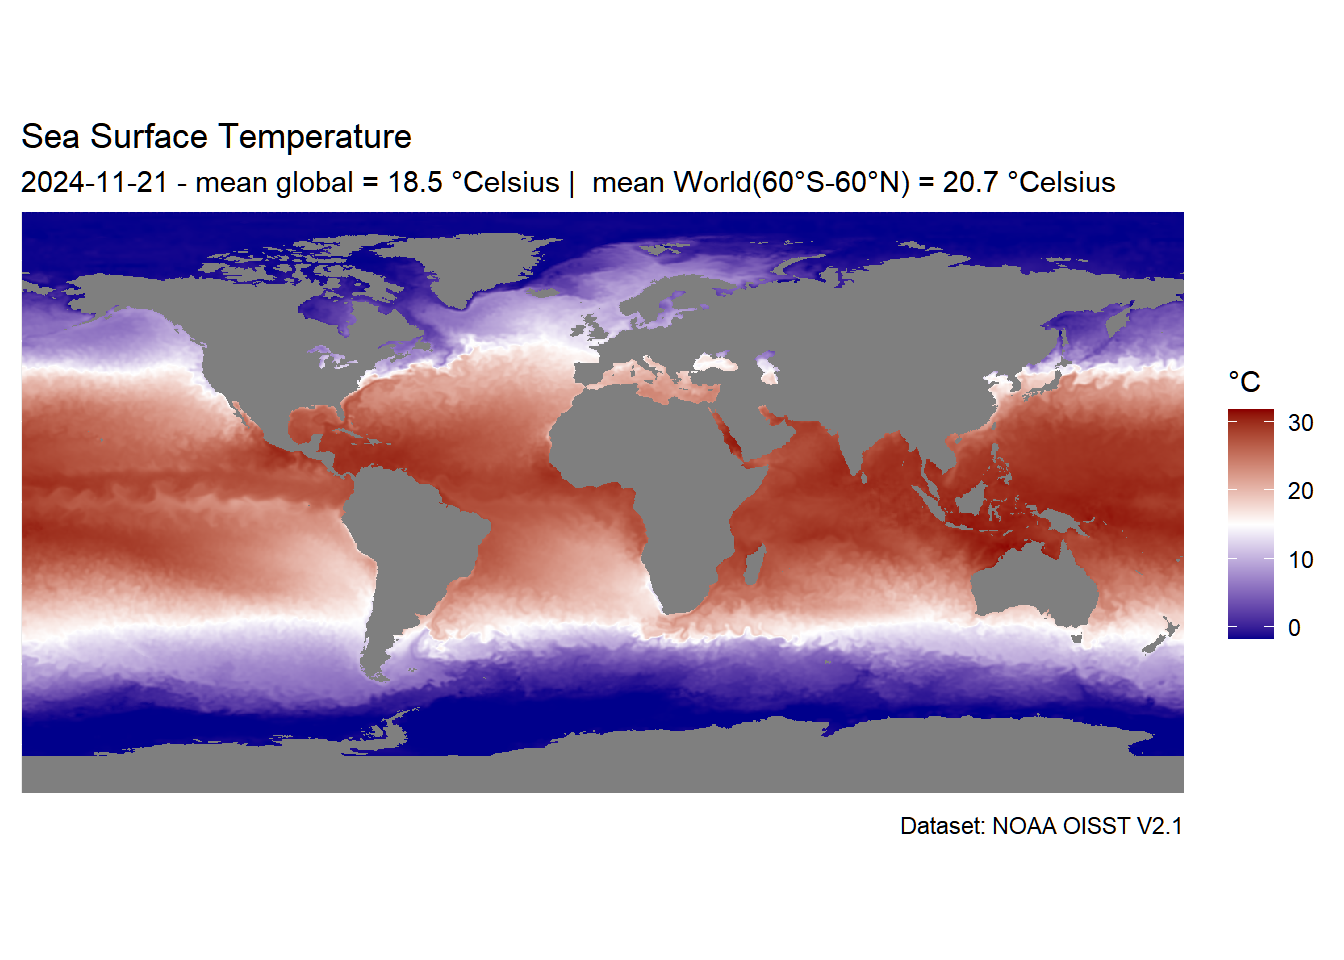
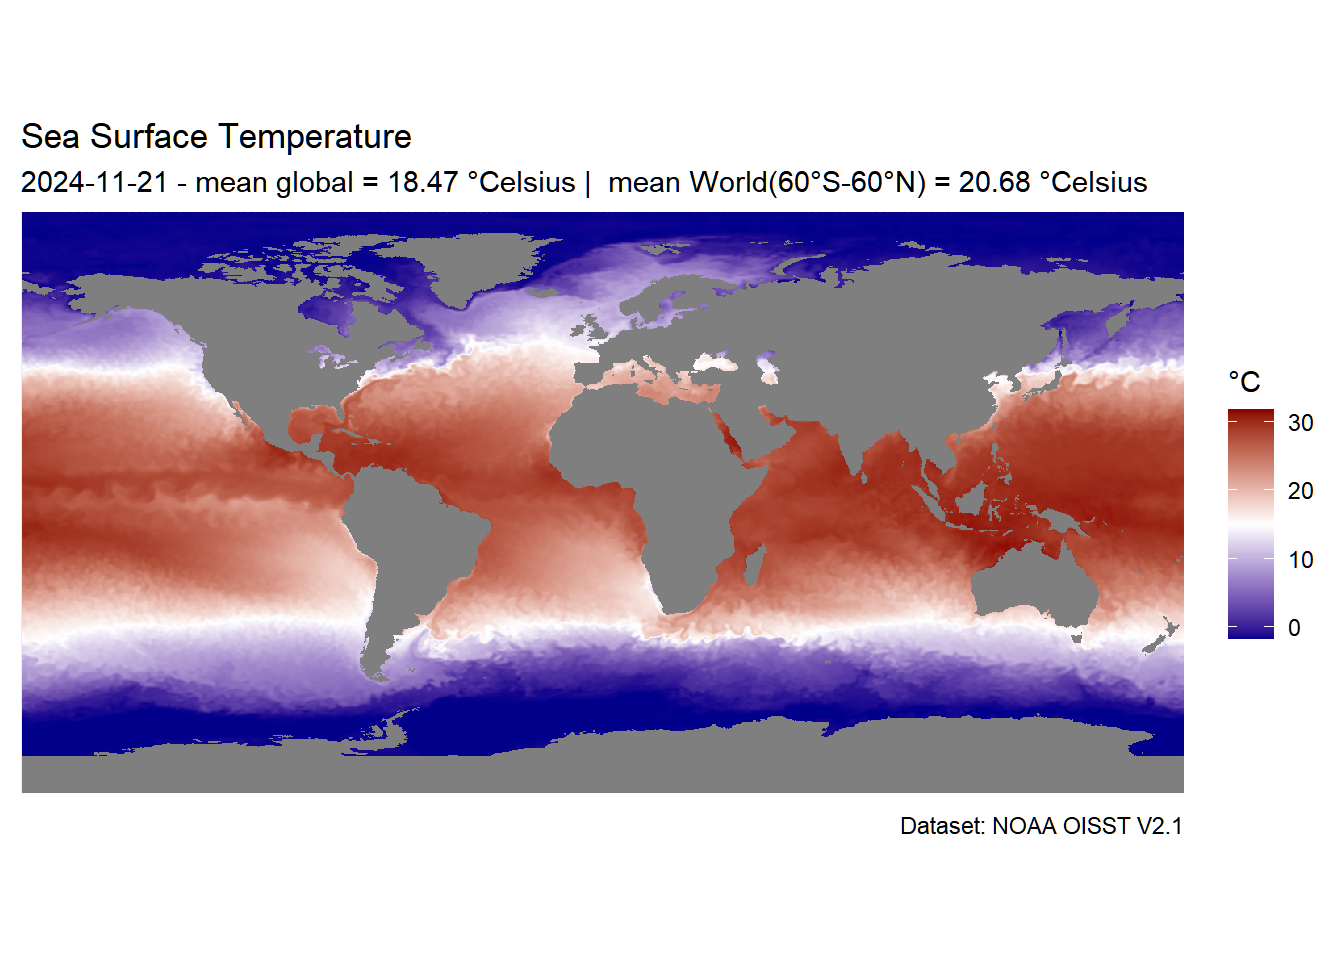
add docs directory

Changed region(s): [[0.3125, 0.1562, 0.8438, 0.2188]]

diff --git a/docs/SST_03_levelplot.html b/docs/SST_03_levelplot.html
@@ -664,11 +664,11 @@ $value
 <span>    subtitle <span class="op">=</span> <span class="fu"><a href="https://rdrr.io/r/base/paste.html">paste0</a></span><span class="op">(</span></span>
 <span>      <span class="va">time_as_date</span>,</span>
 <span>      <span class="st">" - mean global = "</span>,</span>
-<span>      <span class="fu"><a href="https://rdrr.io/r/base/Round.html">round</a></span><span class="op">(</span><span class="va">sst_weighted_mean</span>, <span class="fl">1</span><span class="op">)</span>,</span>
+<span>      <span class="fu"><a href="https://rdrr.io/r/base/Round.html">round</a></span><span class="op">(</span><span class="va">sst_weighted_mean</span>, <span class="fl">2</span><span class="op">)</span>,</span>
 <span>      <span class="st">" °Celsius"</span>,</span>
 <span>      <span class="st">" | "</span>,</span>
 <span>      <span class="st">" mean World(60°S-60°N) = "</span>,</span>
-<span>      <span class="fu"><a href="https://rdrr.io/r/base/Round.html">round</a></span><span class="op">(</span><span class="va">sst_weighted_mean_60S_60N</span>, <span class="fl">1</span><span class="op">)</span>,</span>
+<span>      <span class="fu"><a href="https://rdrr.io/r/base/Round.html">round</a></span><span class="op">(</span><span class="va">sst_weighted_mean_60S_60N</span>, <span class="fl">2</span><span class="op">)</span>,</span>
 <span>      <span class="st">" °Celsius"</span></span>
 <span>    <span class="op">)</span>,</span>
 <span>    caption <span class="op">=</span> <span class="st">"Dataset: NOAA OISST V2.1"</span>,</span>
